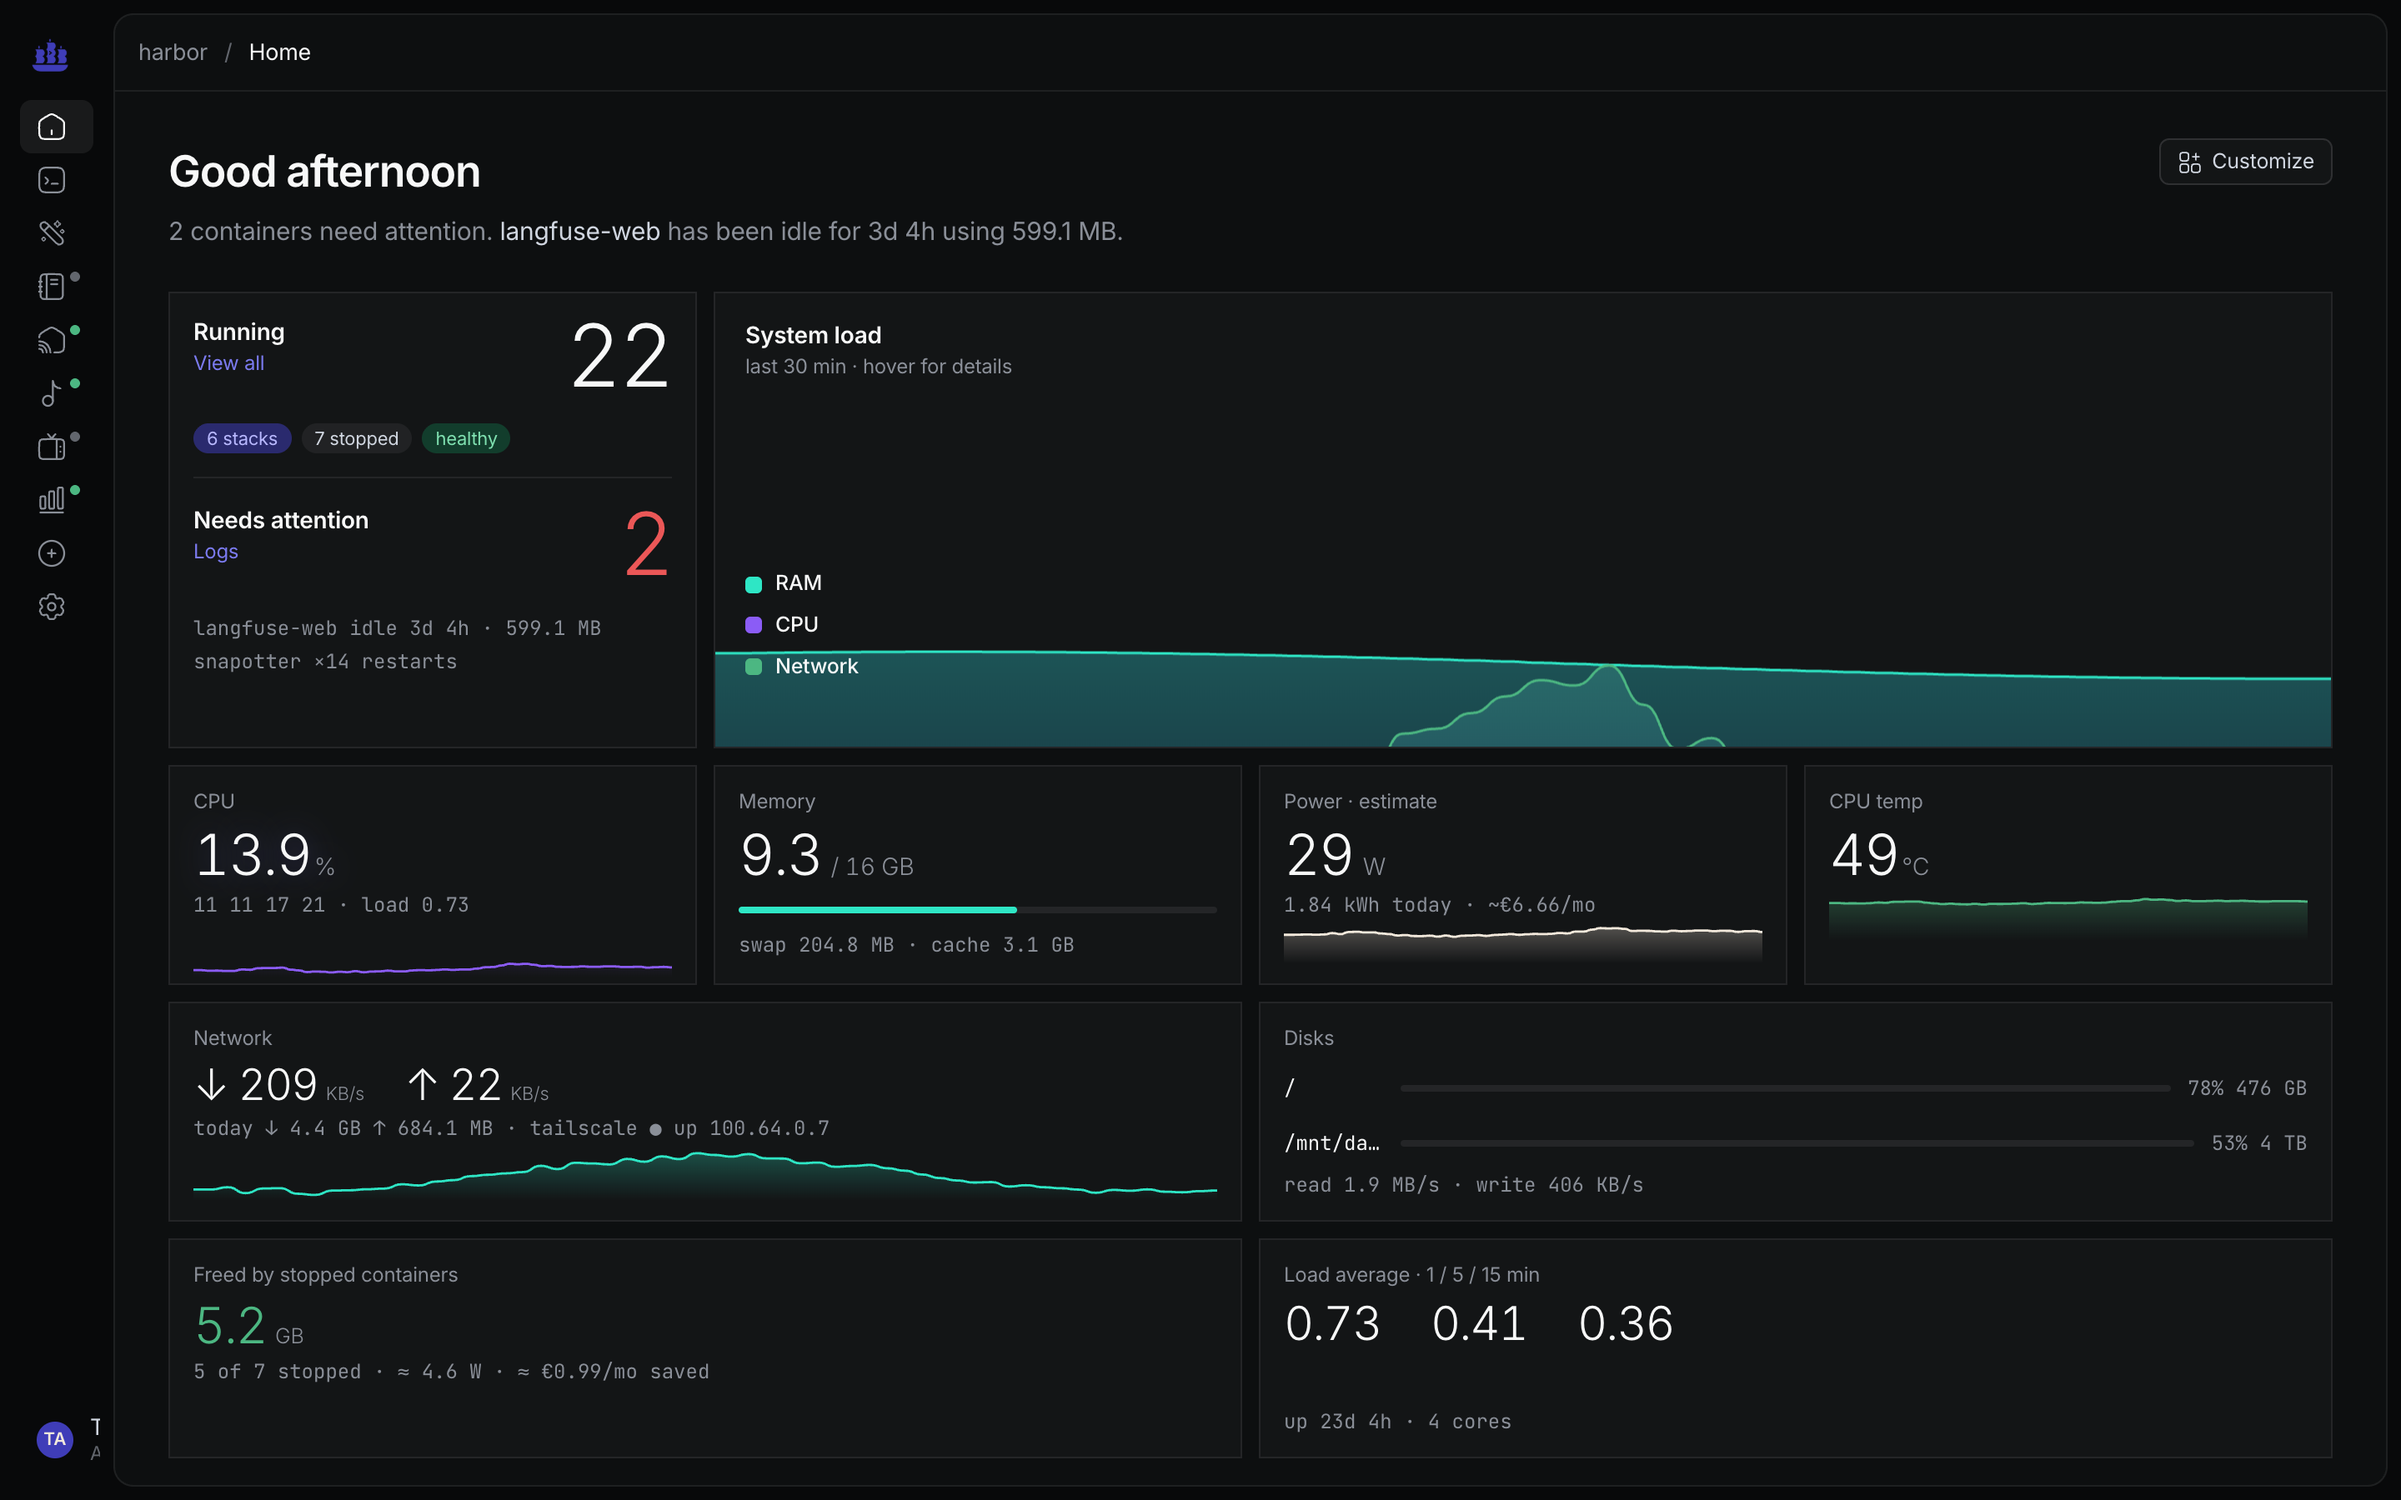
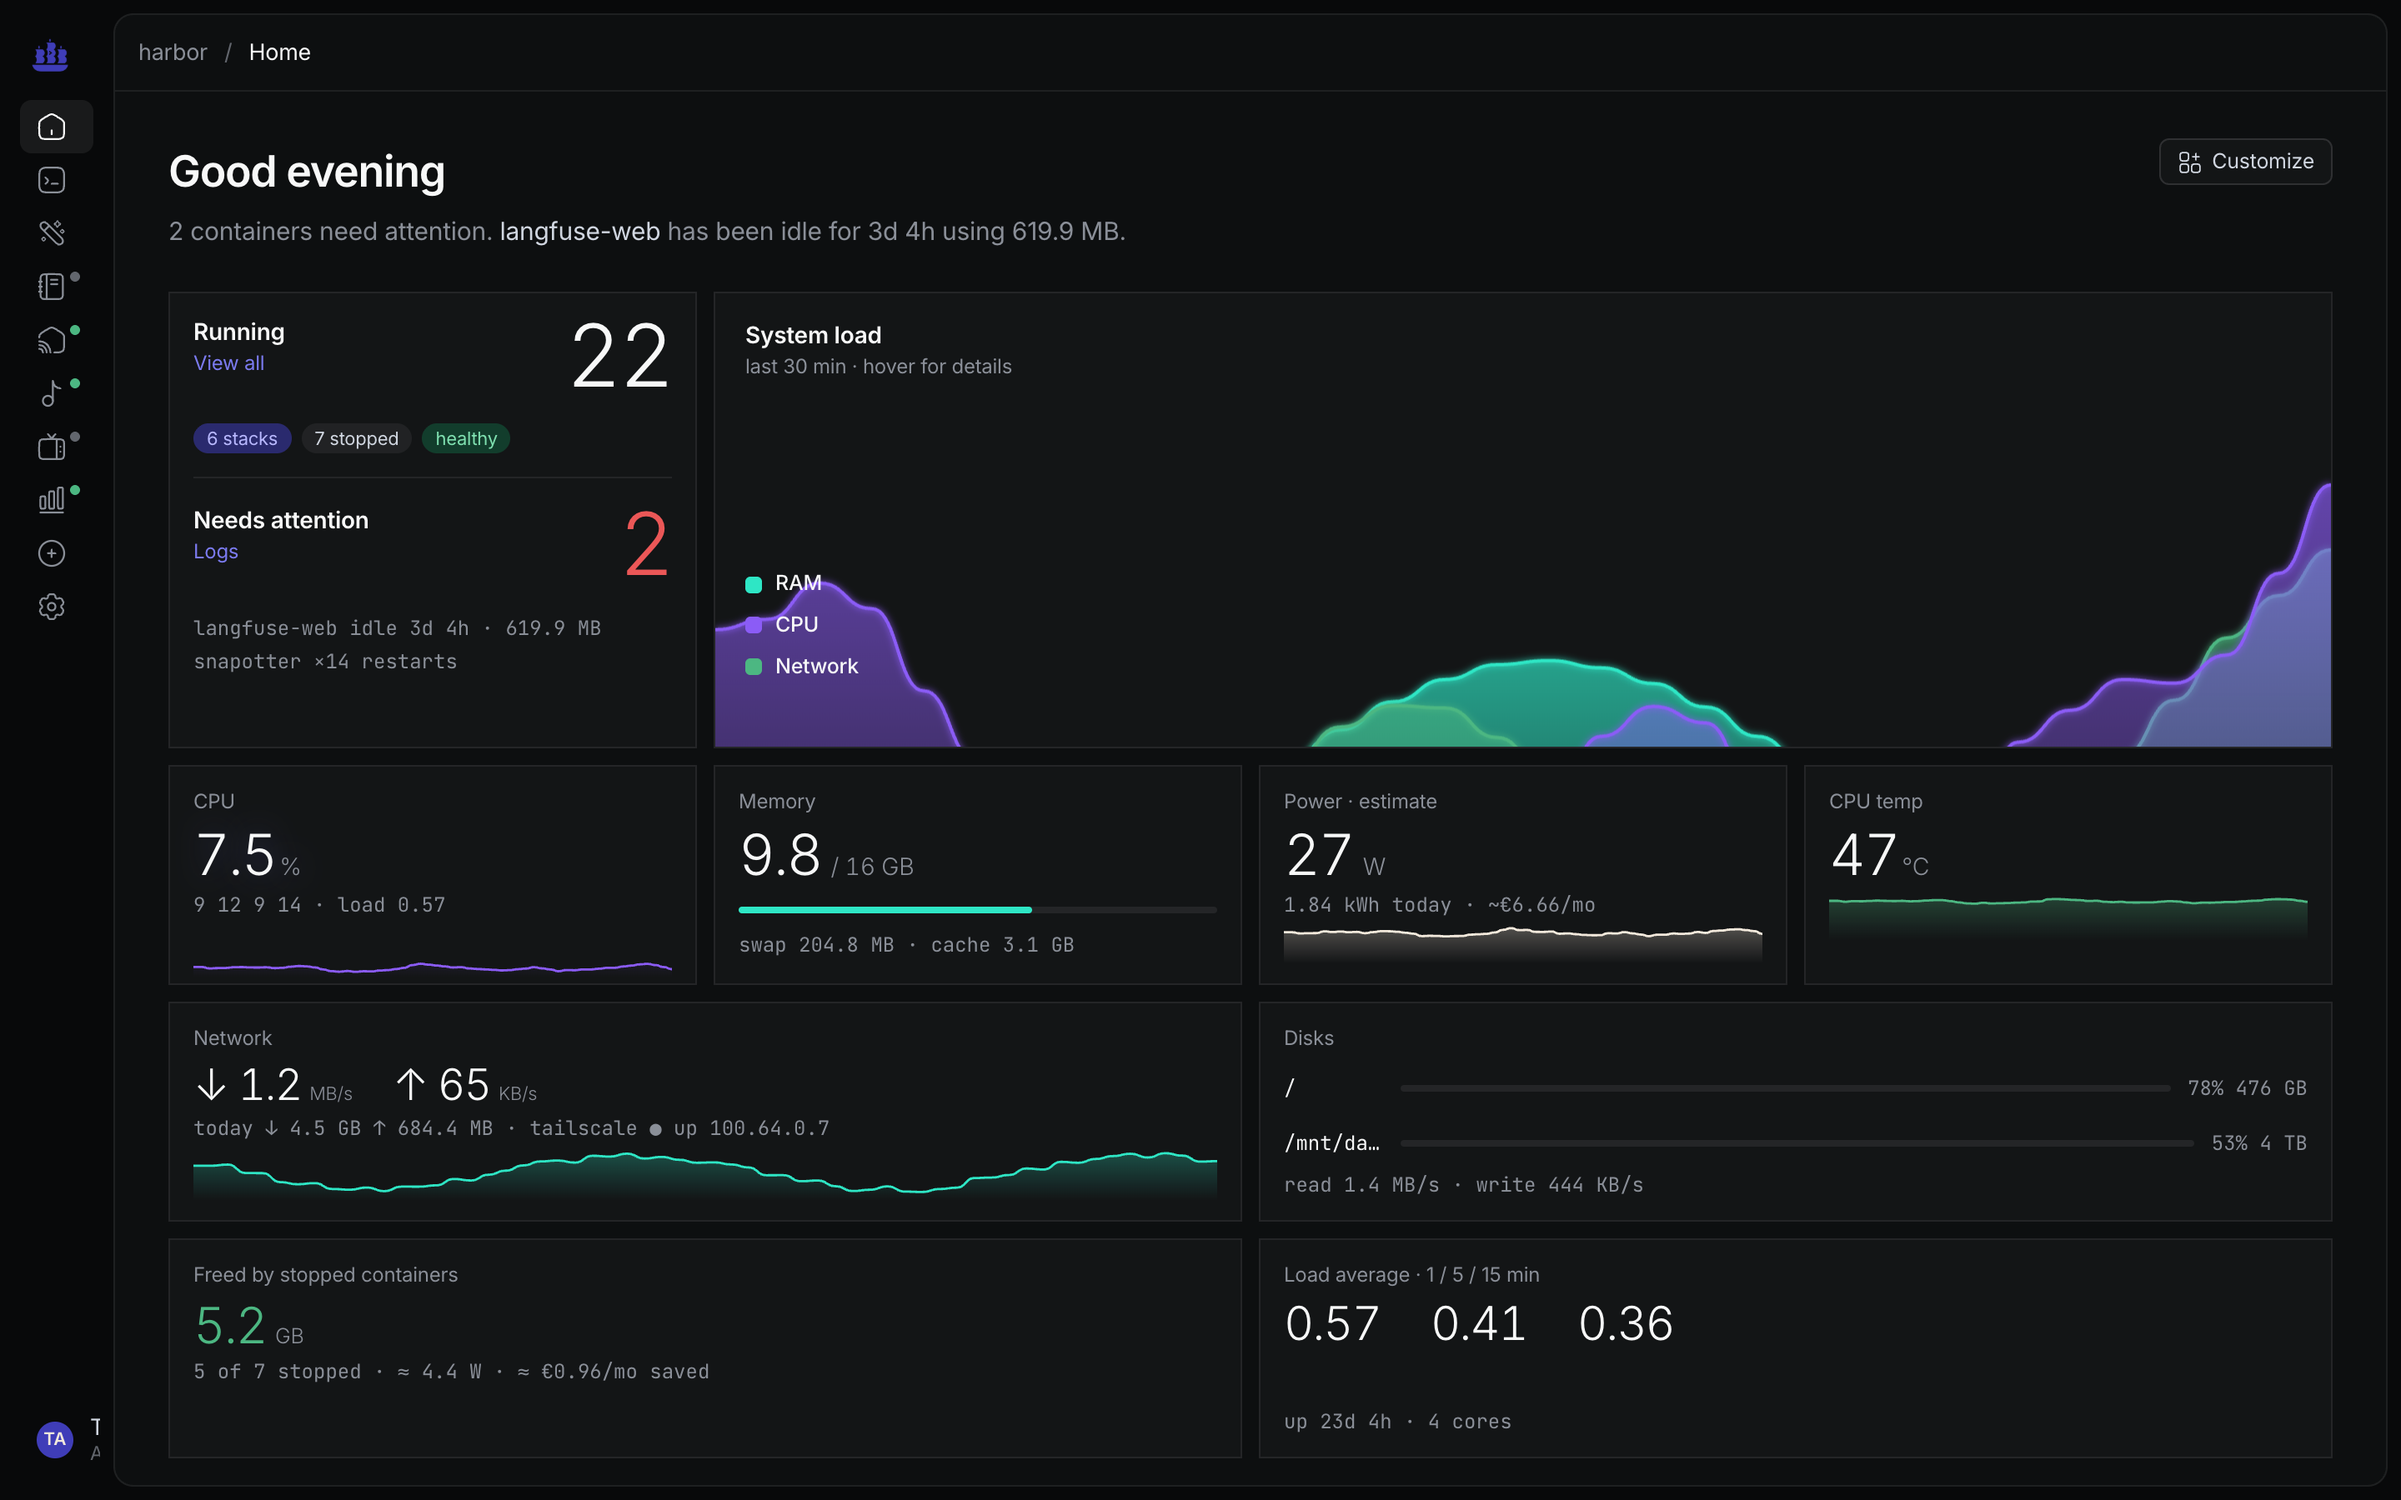
Smoother System load chart: per-series scaling, softer gradients, livelier demo data

diff --git a/web/src/widgets/ui.ts b/web/src/widgets/ui.ts
@@ -93,6 +93,15 @@ function downsample(a: number[], n: number) {
   return out;
 }
 
+// Centered moving average; keeps the length so the x axis is unchanged.
+function smooth(a: number[], r: number) {
+  return a.map((_, i) => {
+    let s = 0, c = 0;
+    for (let j = Math.max(0, i - r); j <= Math.min(a.length - 1, i + r); j++) { s += a[j]; c++; }
+    return s / c;
+  });
+}
+
 // ---------- sparkline (small tiles) ----------
 export function sparkline(parent: HTMLElement, o: { color?: string; height?: number; max?: number; points?: number } = {}) {
   const { ctx, size, c } = canvas(parent, o.height ?? 30);
@@ -128,23 +137,31 @@ export function area(parent: HTMLElement, o: { max?: number; points?: number; tr
     const { w, h: H } = size();
     ctx.clearRect(0, 0, w, H);
     if (!series.length) return;
-    const n = Math.min(o.points ?? 48, Math.max(...series.map((s) => s.data.length)));
+    const n = Math.min(o.points ?? 32, Math.max(...series.map((s) => s.data.length)));
     if (n < 2) return;
-    const ds = series.map((s) => downsample(s.data, n));
-    const max = o.max ?? Math.max(1, ...ds.flat()) * 1.25;
+    const ds = series.map((s) => smooth(downsample(s.data, n), Math.max(1, Math.round(n / 6))));
     const top = 50;
+    // Each series gets its own range so a steady 60% RAM doesn't flatten a
+    // 4% CPU line; exact values are in the trend card.
+    const ys = ds.map((d, k) => {
+      const lo = Math.min(...d), hi = Math.max(...d), span = Math.max(hi - lo, hi * 0.15, 1e-9);
+      return (v: number) => { const f = 0.32 - k * 0.09 + 0.62 * ((v - lo) / span); return H - f * (H - top); };
+    });
     // Draw the largest series first so smaller ones stay visible on top.
     const mean = (d: number[]) => d.reduce((a, b) => a + b, 0) / (d.length || 1);
     const order = ds.map((_, i) => i).sort((a, b) => mean(ds[b]) - mean(ds[a]));
     order.forEach((si) => {
       const d = ds[si];
       const col = series[si].color;
-      const pts = d.map((v, i) => [(i / (d.length - 1)) * w, H - (v / max) * (H - top)] as [number, number]);
-      const g = ctx.createLinearGradient(0, top, 0, H);
-      g.addColorStop(0, col + "b0"); g.addColorStop(1, theme.blue + "40");
+      const pts = d.map((v, i) => [(i / (d.length - 1)) * w, ys[si](v)] as [number, number]);
+      const peak = Math.min(...pts.map((p) => p[1]));
+      const g = ctx.createLinearGradient(0, peak, 0, H);
+      g.addColorStop(0, col + "c8"); g.addColorStop(0.55, col + "66"); g.addColorStop(1, theme.blue + "88");
       ctx.beginPath(); smoothPath(ctx, pts); ctx.lineTo(w, H); ctx.lineTo(0, H); ctx.closePath();
-      ctx.globalAlpha = 0.8; ctx.fillStyle = g; ctx.fill(); ctx.globalAlpha = 1;
-      ctx.beginPath(); smoothPath(ctx, pts); ctx.strokeStyle = col; ctx.lineWidth = 1.5; ctx.stroke();
+      ctx.globalAlpha = 0.85; ctx.fillStyle = g; ctx.fill(); ctx.globalAlpha = 1;
+      ctx.save(); ctx.shadowColor = col; ctx.shadowBlur = 8;
+      ctx.beginPath(); smoothPath(ctx, pts); ctx.strokeStyle = col; ctx.lineWidth = 2; ctx.lineJoin = "round"; ctx.stroke();
+      ctx.restore();
     });
     if (hover != null) {
       const x = hover * w;
@@ -152,7 +169,7 @@ export function area(parent: HTMLElement, o: { max?: number; points?: number; tr
       ctx.beginPath(); ctx.moveTo(x, 18); ctx.lineTo(x, H - 6); ctx.stroke(); ctx.setLineDash([]);
       const i = Math.round(hover * (n - 1));
       ds.forEach((d, si) => {
-        const y = H - (d[i] / max) * (H - top);
+        const y = ys[si](d[i]);
         ctx.beginPath(); ctx.arc(x, y, 3.5, 0, Math.PI * 2); ctx.fillStyle = "#fff"; ctx.fill();
         ctx.lineWidth = 2; ctx.strokeStyle = series[si].color; ctx.stroke();
       });

diff --git a/server/src/demo.ts b/server/src/demo.ts
@@ -13,15 +13,15 @@ let kwh = 1.84, rxToday = 4.1 * GB, txToday = 0.62 * GB;
 
 export function demoStats(): Stats {
   t++;
-  const cpu = Math.max(2, 9 + 6 * wave(90) + 10 * Math.max(0, wave(37, 1)) ** 4 + noise(3));
+  const cpu = Math.max(2, 9 + 5 * wave(28) + 9 * Math.max(0, wave(17, 1)) ** 2 + noise(3));
   const watts = 24 + cpu * 0.42 + noise(1.5);
-  const rx = Math.max(0, 900e3 + 700e3 * wave(60, 2) + noise(300e3));
+  const rx = Math.max(0, 900e3 + 650e3 * wave(36, 3.6) + noise(300e3));
   const tx = Math.max(0, 120e3 + 80e3 * wave(45) + noise(40e3));
   kwh += (watts * 2) / 3600 / 1000; rxToday += rx * 2; txToday += tx * 2;
   return {
     t: Date.now(),
     cpu: { total: cpu, cores: [0, 1, 2, 3].map((i) => Math.max(0, cpu + noise(8) + i)), temp: 44 + cpu * 0.35 + noise(1), load: [0.38 + cpu / 40, 0.41, 0.36] },
-    mem: { total: 16 * GB, used: (9.6 + 0.3 * wave(120)) * GB, cached: 3.1 * GB, swapTotal: 4 * GB, swapUsed: 0.2 * GB },
+    mem: { total: 16 * GB, used: (9.6 + 0.6 * wave(44, 1.8)) * GB, cached: 3.1 * GB, swapTotal: 4 * GB, swapUsed: 0.2 * GB },
     uptime: 23 * 86400 + 4 * 3600 + t * 2,
     net: { rx, tx, rxToday, txToday },
     disks: [{ mount: "/", total: 476 * GB, used: 371 * GB }, { mount: "/mnt/data", total: 3.6 * 1024 * GB, used: 1.9 * 1024 * GB }],
